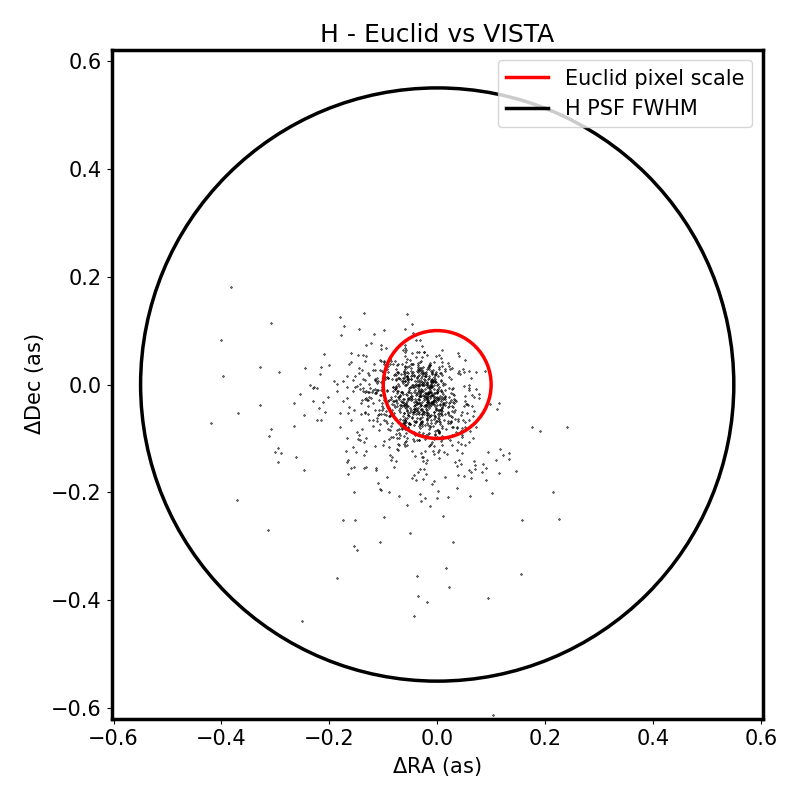
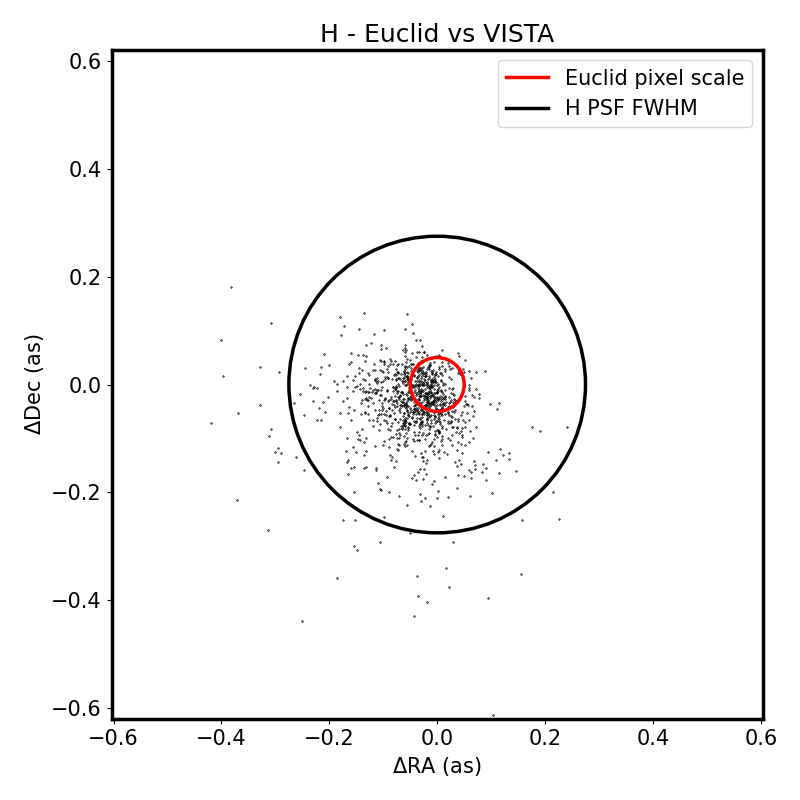
ultra-deep stripe bad astrom conspiracy

diff --git a/src/cutouts/cutout_codes.py b/src/cutouts/cutout_codes.py
@@ -157,7 +157,8 @@ def isCoordInSurveyFootprints(ra: np.ndarray, dec: np.ndarray) -> np.ndarray:
 
 def Cutout(ra: float, dec:float, contained_in: Optional[np.array] = None, size: float = 10.0, 
            save_cutout: bool = False, save_dir: Path = Path.cwd().parent.parent / 'data' / 'cutouts',
-           plot_title: Optional[str] = None) -> None:
+           plot_title: Optional[str] = None,
+           add_centre_lines: Optional[bool] = False) -> None:
 
     """
     Create cutouts from Euclid, ground-based and JWST imaging.
@@ -180,6 +181,8 @@ def Cutout(ra: float, dec:float, contained_in: Optional[np.array] = None, size: 
         Directory to save the cutout. The default is Path.cwd().parent.parent / 'data' / 'cutouts'.
     plot_title: str, optional
         Can pass a title to the stamp plot. The default is None.
+    add_centre_lines: bool, optional
+        Whether to add lines to the plot showing the centre of the cutout. The default is False.
 
     
     Returns
@@ -219,7 +222,8 @@ def Cutout(ra: float, dec:float, contained_in: Optional[np.array] = None, size: 
             cutout_grI = Cutout2D(data_I, c, size=size/pix_scale, wcs=wcs_I)
 
     #### Y ####
-    with fits.open(vista_dir / 'UVISTA_Y_DR6_cropped.fits') as hdu_Y:
+    #with fits.open(vista_dir / 'UVISTA_Y_DR6_cropped.fits') as hdu_Y:
+    with fits.open(vista_dir / 'UVISTA_Y_dr5_rc1.fits') as hdu_Y:
 
         data_Y = hdu_Y[0].data
         hdr_Y = hdu_Y[0].header
@@ -229,7 +233,8 @@ def Cutout(ra: float, dec:float, contained_in: Optional[np.array] = None, size: 
         cutout_grY = Cutout2D(data_Y, c, size=size/pix_scale, wcs=wcs_Y)
 
     #### J ####
-    with fits.open(vista_dir / 'UVISTA_J_DR6_cropped.fits') as hdu_J:
+    #with fits.open(vista_dir / 'UVISTA_J_DR6_cropped.fits') as hdu_J:
+    with fits.open(vista_dir / 'UVISTA_J_dr5_rc1.fits') as hdu_J:
 
         data_J = hdu_J[0].data
         hdr_J = hdu_J[0].header
@@ -239,7 +244,8 @@ def Cutout(ra: float, dec:float, contained_in: Optional[np.array] = None, size: 
         cutout_grJ = Cutout2D(data_J, c, size=size/pix_scale, wcs=wcs_J)
 
     #### H ####
-    with fits.open(vista_dir / 'UVISTA_H_DR6_cropped.fits') as hdu_H:
+    #with fits.open(vista_dir / 'UVISTA_H_DR6_cropped.fits') as hdu_H:
+    with fits.open(vista_dir / 'UVISTA_H_dr5_rc1.fits') as hdu_H:
             
         data_H = hdu_H[0].data
         hdr_H = hdu_H[0].header
@@ -530,6 +536,34 @@ def Cutout(ra: float, dec:float, contained_in: Optional[np.array] = None, size: 
                 plot_cutout(ax[0, 5], data, lims, title) if i == 0 else plot_cutout(ax[1, 5], data, lims, title)
 
 
+    if add_centre_lines:
+        # Draw a plus symbol on each subplot to show the centre of the cutout
+        for axis in ax[0, :4]:
+            center_x, center_y = cutout_grY.wcs.world_to_pixel(SkyCoord(c.ra.deg, c.dec.deg, unit='deg'))
+            axis.plot(center_x, center_y, 'r+', markersize=20)            
+
+        for axis in ax[1, :4]:
+            center_x, center_y = cutout_euY.wcs.world_to_pixel(SkyCoord(c.ra.deg, c.dec.deg, unit='deg'))
+            axis.plot(center_x, center_y, 'r+', markersize=20)  
+
+        center_x, center_y = cutout_hubble.wcs.world_to_pixel(SkyCoord(c.ra.deg, c.dec.deg, unit='deg'))
+        ax[1,4].plot(center_x, center_y, 'r+', markersize=20)
+
+        if len(ax[0, :]) > 5:
+            # if in cweb
+            if footprint_bools[1] != 0:
+                center_x, center_y = cutout_f277w_cweb.wcs.world_to_pixel(SkyCoord(c.ra.deg, c.dec.deg, unit='deg'))
+                ax[0,5].plot(center_x, center_y, 'r+', markersize=20)
+                ax[1,5].plot(center_x, center_y, 'r+', markersize=20)
+            else:
+                # Primer
+                center_x, center_y = cutout_f277w_prim.wcs.world_to_pixel(SkyCoord(c.ra.deg, c.dec.deg, unit='deg'))
+                ax[0,5].plot(center_x, center_y, 'r+', markersize=20)
+                ax[1,5].plot(center_x, center_y, 'r+', markersize=20)
+
+
+
+
     #plt.savefig(plot_dir / f'cutout_test.png')
             
     # Set title if we pass a name
@@ -544,16 +578,14 @@ def Cutout(ra: float, dec:float, contained_in: Optional[np.array] = None, size: 
 if __name__ == '__main__':
     
     #! REBELS sources
-    t = ascii.read(Path.cwd().parent.parent / 'data' / 'mosaic' / 'REBELS.csv', format='csv')
-    t = t[t['RA'] > 148]
-    ra = t['RA']
-    dec = t['Dec']
-    z = t['Redshift (z)']
-    ID = t['Object Name']
-    ID = [name.split('>')[1].split('<')[0] for name in ID]
-    print(list(ra))
-    print(list(dec))
-    exit()
+    # t = ascii.read(Path.cwd().parent.parent / 'data' / 'mosaic' / 'REBELS.csv', format='csv')
+    # t = t[t['RA'] > 148]
+    # ra = t['RA']
+    # dec = t['Dec']
+    # z = t['Redshift (z)']
+    # ID = t['Object Name']
+    # ID = [name.split('>')[1].split('<')[0] for name in ID]
+
     #! Strong lens
     #ra = [150.00280406167596]
     #dec = [2.2002751856804608]
@@ -612,6 +644,12 @@ if __name__ == '__main__':
     # ra = [b1.ra.deg]
     # dec = [b1.dec.deg]
 
+    #! Bad astrometry sources
+    stars_dir = Path.cwd().parent.parent / 'data' / 'ref_catalogues' / 'stars'
+    stars = ascii.read(stars_dir / f'H_outside_pixscale_vista_euclid_coords.ascii')
+    ra = stars['RA_euclid']
+    dec = stars['DEC_euclid']
+
 
 
     for i in range(len(ra)):
@@ -621,7 +659,7 @@ if __name__ == '__main__':
 
         #Cutout(ra[i], dec[i], size=6., plot_title=ID[i] + ', z=' + str(z[i]))
         #Cutout(ra[i], dec[i], size=10.)
-        Cutout(ra[i], dec[i], size=6., plot_title='Big Three Dragons')
+        Cutout(ra[i], dec[i], size=6., plot_title='Bad astrometry', add_centre_lines=True)
 
 
     

diff --git a/src/validation/astrometric_accurary.py b/src/validation/astrometric_accurary.py
@@ -63,21 +63,34 @@ for i, filter_name in enumerate(filter_names):
         plt.title(f'{filter_name} - Euclid vs VISTA')
 
     # Plot a circle corresponding to the Euclid pixel scale
-    circle1 = plt.Circle((0, 0), 0.1, color='r', fill=False, linewidth=2.5)
+    circle1 = plt.Circle((0, 0), 0.1/2, color='r', fill=False, linewidth=2.5)
     plt.gca().add_artist(circle1)
 
     # And plot a Circle corresponding to the VIS FWHM peak
-    circle2 = plt.Circle((0, 0), psf_fwhm[filter_names.index(filter_name)], color='black', fill=False, linewidth=2.5)
+    circle2 = plt.Circle((0, 0), psf_fwhm[filter_names.index(filter_name)]/2, color='black', fill=False, linewidth=2.5)
     plt.gca().add_artist(circle2)
 
     # Find the subset of stars that lie outside the Euclid pixel scale and the FWHM
-    outside = np.where((np.abs(delta_ra) > 0.1) | (np.abs(delta_dec) > 0.1) | (np.sqrt(delta_ra**2 + delta_dec**2) > psf_fwhm[filter_names.index(filter_name)]))[0]
+    outside = np.where((np.sqrt(delta_ra**2 + delta_dec**2) > psf_fwhm[filter_names.index(filter_name)]/2))[0]
+
+    print(len(outside))
+
+    # Plot these in red on the plot
+    plt.scatter(delta_ra[outside], delta_dec[outside], s=1, marker='x', color='red', alpha=0.6)
     
     # Save these to a file
     if gaia:
         outside_file = stars_dir / f'{filter_name}_outside_pixscale_euclid_gaia_coords.ascii'
     else:
         outside_file = stars_dir / f'{filter_name}_outside_pixscale_vista_euclid_coords.ascii'
+
+    with open(outside_file, 'w') as f:
+        f.write('# RA_euclid DEC_euclid RA_vista DEC_vista\n')
+        for i in outside:
+            if gaia:
+                f.write(f'{stars["RA_euclid"][i]} {stars["DEC_euclid"][i]} {stars["RA_Gaia"][i]} {stars["DEC_Gaia"][i]}\n')
+            else:
+                f.write(f'{stars["RA_euclid"][i]} {stars["DEC_euclid"][i]} {stars["RA_vista"][i]} {stars["DEC_vista"][i]}\n')
 
     # Dummy plots for the legend
     plt.plot([-99, -98], [-99, -98], color='r', lw=2.5, label='Euclid pixel scale')
@@ -97,5 +110,5 @@ for i, filter_name in enumerate(filter_names):
     #    plt.savefig(plot_dir / f'VISTA_{filter_name}_delta_ra_dec.png')
     #plt.close()
 
-    #plt.show()
+    plt.show()
     #plt.close()

diff --git a/src/validation/bad_astrom_on_footprint.py b/src/validation/bad_astrom_on_footprint.py
@@ -96,13 +96,25 @@ e = Polygon(np.array([[150.6599884,2.6947483], [149.8463557,2.9082861], [149.606
 ax.add_patch(e)
 
 #! Plot positions of large offset stars
-stars = ascii.read(stars_dir / 'Y_vista_euclid_coords.ascii')
+filter_name = 'J'
+stars = ascii.read(stars_dir / f'{filter_name}_outside_pixscale_vista_euclid_coords.ascii')
 stars_ra = stars['RA_vista']
 stars_dec = stars['DEC_vista']
 
+#! Plot the ultra-deep stripes
+strip1 = Polygon(np.array([[150.43, 2.76], [150.57, 2.76], [150.57, 1.66], [150.43, 1.66]]), closed=True, edgecolor='orange', facecolor='none', lw=2.5, alpha=0.8)
+strip2 = Polygon(np.array([[150.06, 2.76], [150.20, 2.76], [150.20, 1.66], [150.06, 1.66]]), closed=True, edgecolor='orange', facecolor='none', lw=2.5, alpha=0.8)
+strip3 = Polygon(np.array([[149.70, 2.76], [149.83, 2.76], [149.83, 1.66], [149.70, 1.66]]), closed=True, edgecolor='orange', facecolor='none', lw=2.5, alpha=0.8)
+strip4 = Polygon(np.array([[149.33, 2.76], [149.46, 2.76], [149.46, 1.66], [149.33, 1.66]]), closed=True, edgecolor='orange', facecolor='none', lw=2.5, alpha=0.8, label='Ultra-deep stripes')
 
-# Plot the REBELS galaxies
-ax.scatter(stars_ra, stars_dec, marker='x', color='black', s=10, label='Astrometry offset > 0.1as')
+ax.add_patch(strip1)
+ax.add_patch(strip2)
+ax.add_patch(strip3)
+ax.add_patch(strip4)
+                 
+
+# Plot the bad stars
+ax.scatter(stars_ra, stars_dec, marker='x', color='black', s=10, label=f'astrom. offset > {filter_name} PSF FWHM')
 
 # Set axis limits and labels
 ax.set_xlim(150.9, 149.1)
@@ -112,6 +124,7 @@ ax.set_ylabel('DEC (deg)')
 ax.legend(loc='upper right')
 plt.gca().set_aspect('equal', adjustable='box')
 plt.tight_layout()
+plt.savefig(Path.cwd().parent.parent / 'plots' / 'mosaic' / f'{filter_name}_bad_astrom_on_footprint.png')
 plt.show()
 
 
